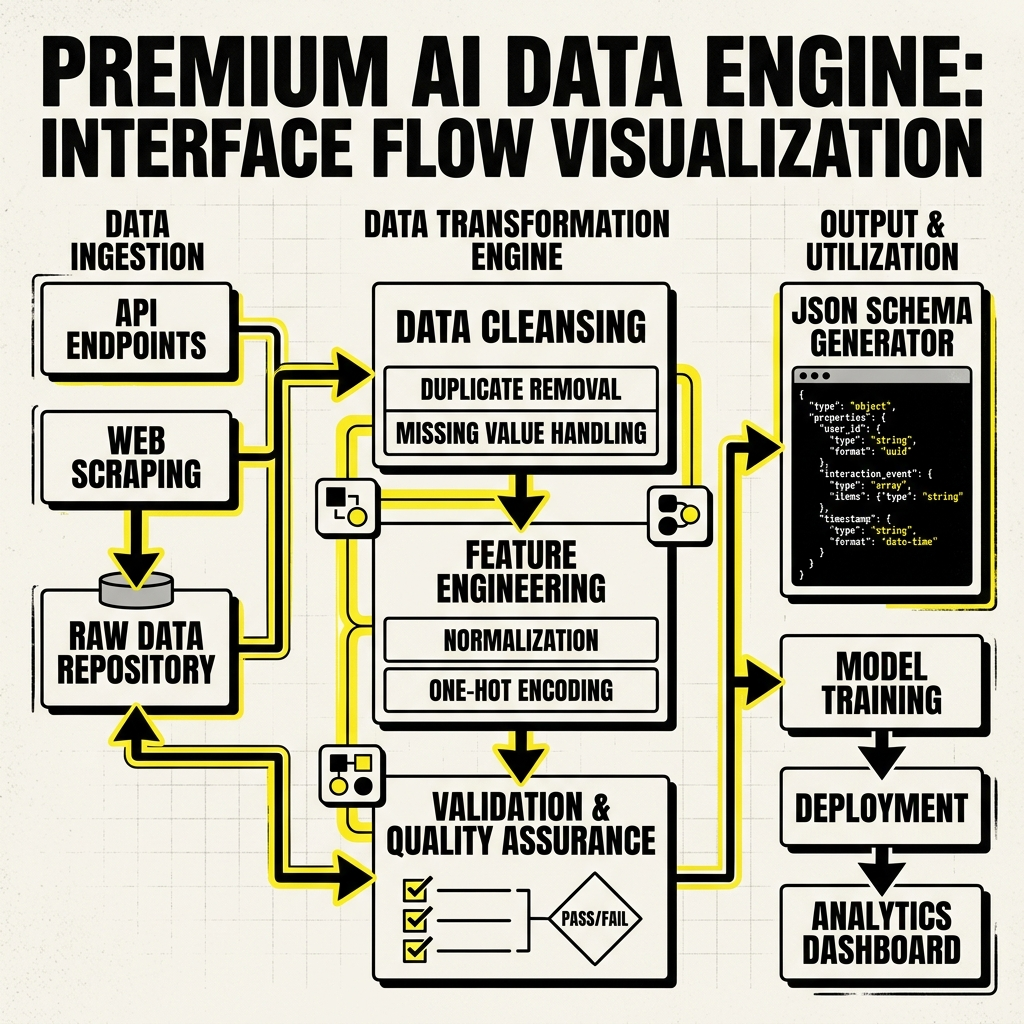
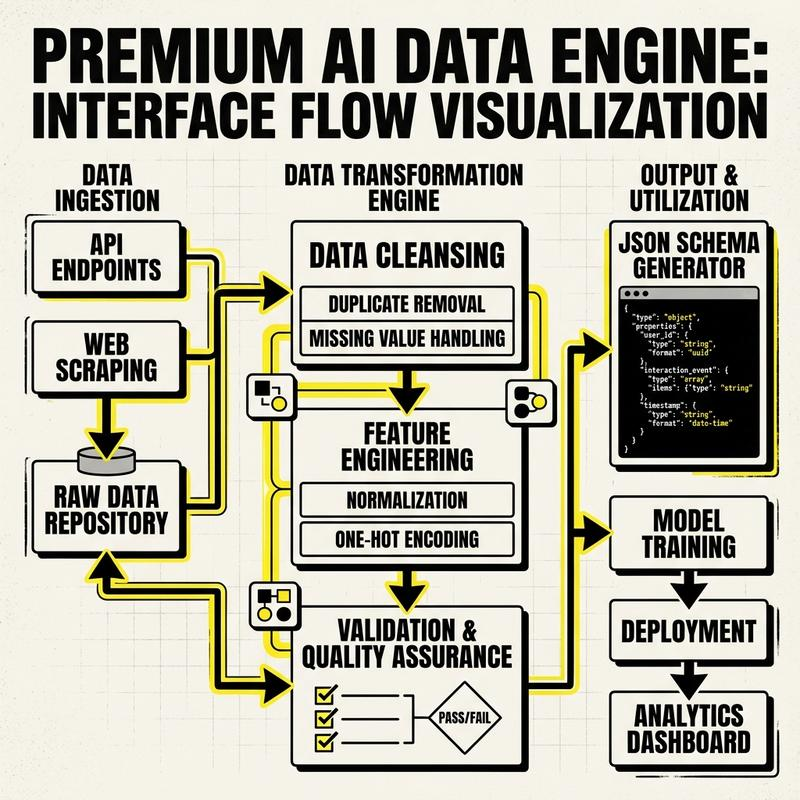
fix: compress preview images under 150kb and enrich OG tags for whatsapp link preview support

diff --git a/prompts/001.html b/prompts/001.html
@@ -99,10 +99,12 @@
     <link rel="stylesheet" href="../index.css?v=1.1">
 
     <!-- Open Graph / Facebook -->
+    <meta property="og:site_name" content="Ryan Shoyab Prompts">
     <meta property="og:type" content="article">
     <meta property="og:title" content="#001 - Neobrutalist UI/UX Code Generator Prompt | Ryan Shoyab Prompts">
     <meta property="og:description" content="Copy prompt 'Neobrutalist UI/UX Code Generator Prompt' in one click. Developed by Ryan Shoyab Shaikh.">
     <meta property="og:image" content="https://ryanshoyab.in/ASSETS/prompts/001.jpg">
+    <meta property="og:image:type" content="image/jpeg">
     <meta property="og:url" content="https://ryanshoyab.in/prompts/001.html">
     
     <!-- Twitter -->

diff --git a/prompts/002.html b/prompts/002.html
@@ -99,10 +99,12 @@
     <link rel="stylesheet" href="../index.css?v=1.1">
 
     <!-- Open Graph / Facebook -->
+    <meta property="og:site_name" content="Ryan Shoyab Prompts">
     <meta property="og:type" content="article">
     <meta property="og:title" content="#002 - Self-Healing Multi-System Webhook Handler | Ryan Shoyab Prompts">
     <meta property="og:description" content="Copy prompt 'Self-Healing Multi-System Webhook Handler' in one click. Developed by Ryan Shoyab Shaikh.">
     <meta property="og:image" content="https://ryanshoyab.in/ASSETS/about-ryan.jpg">
+    <meta property="og:image:type" content="image/jpeg">
     <meta property="og:url" content="https://ryanshoyab.in/prompts/002.html">
     
     <!-- Twitter -->

diff --git a/prompts/003.html b/prompts/003.html
@@ -99,10 +99,12 @@
     <link rel="stylesheet" href="../index.css?v=1.1">
 
     <!-- Open Graph / Facebook -->
+    <meta property="og:site_name" content="Ryan Shoyab Prompts">
     <meta property="og:type" content="article">
     <meta property="og:title" content="#003 - Multimodal Semantic Extraction System | Ryan Shoyab Prompts">
     <meta property="og:description" content="Copy prompt 'Multimodal Semantic Extraction System' in one click. Developed by Ryan Shoyab Shaikh.">
     <meta property="og:image" content="https://ryanshoyab.in/ASSETS/prompts/003.jpg">
+    <meta property="og:image:type" content="image/jpeg">
     <meta property="og:url" content="https://ryanshoyab.in/prompts/003.html">
     
     <!-- Twitter -->

diff --git a/prompts/004.html b/prompts/004.html
@@ -99,10 +99,12 @@
     <link rel="stylesheet" href="../index.css?v=1.1">
 
     <!-- Open Graph / Facebook -->
+    <meta property="og:site_name" content="Ryan Shoyab Prompts">
     <meta property="og:type" content="article">
     <meta property="og:title" content="#004 - Neobrutalist Clone Generator Prompt (With Placeholders) | Ryan Shoyab Prompts">
     <meta property="og:description" content="Copy prompt 'Neobrutalist Clone Generator Prompt (With Placeholders)' in one click. Developed by Ryan Shoyab Shaikh.">
     <meta property="og:image" content="https://ryanshoyab.in/ASSETS/prompts/004.jpg">
+    <meta property="og:image:type" content="image/jpeg">
     <meta property="og:url" content="https://ryanshoyab.in/prompts/004.html">
     
     <!-- Twitter -->

diff --git a/build_pages.py b/build_pages.py
@@ -410,10 +410,12 @@ for p in prompts:
     
     og_head_tags = f"""
     <!-- Open Graph / Facebook -->
+    <meta property="og:site_name" content="Ryan Shoyab Prompts">
     <meta property="og:type" content="article">
     <meta property="og:title" content="#{p["id"]} - {p["title"]} | Ryan Shoyab Prompts">
     <meta property="og:description" content="Copy prompt '{p["title"]}' in one click. Developed by Ryan Shoyab Shaikh.">
     <meta property="og:image" content="{og_img}">
+    <meta property="og:image:type" content="image/jpeg">
     <meta property="og:url" content="https://ryanshoyab.in/prompts/{page_filename}">
     
     <!-- Twitter -->